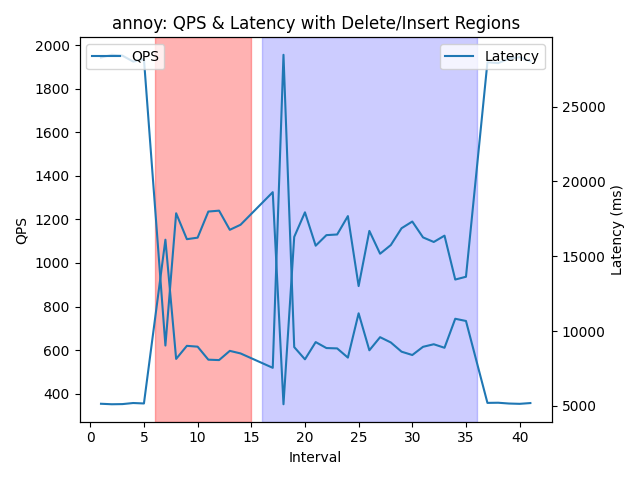
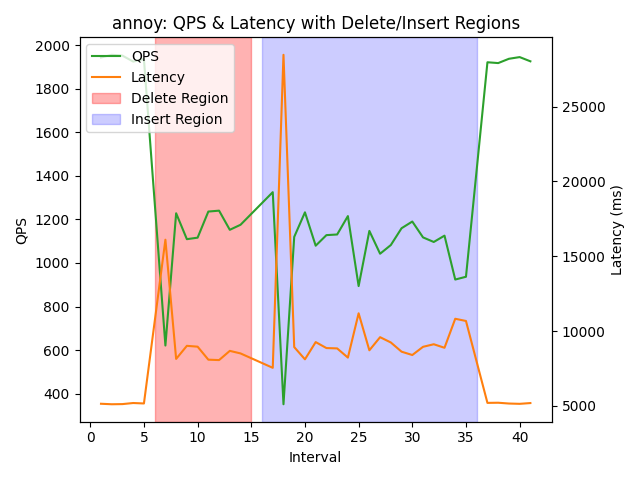
Changed plotting a bit

diff --git a/logs/plot.py b/logs/plot.py
@@ -2,6 +2,7 @@ import glob
 import os
 import re
 import matplotlib.pyplot as plt
+import matplotlib.patches as mpatches
 
 # Regex to match both with/without "queries/sec"
 pattern = re.compile(
@@ -37,21 +38,30 @@ for filepath in glob.glob('dynamic_updates_*.txt'):
     # Plot
     fig, ax1 = plt.subplots()
     ax2 = ax1.twinx()
-    ax1.plot(intervals, qps_vals, label='QPS')
-    ax2.plot(intervals, latencies, label='Latency')
 
-    # Highlight regions
+    # Plot lines with distinct colors
+    qps_line, = ax1.plot(intervals, qps_vals, color='tab:green', label='QPS')
+    latency_line, = ax2.plot(intervals, latencies, color='tab:orange', label='Latency')
+
+    # Shade delete (red) and insert (blue) regions
     for start, end in delete_regions:
         ax1.axvspan(start, end, color='red', alpha=0.3)
     for start, end in insert_regions:
         ax1.axvspan(start, end, color='blue', alpha=0.2)
 
+    # Create legend patches for regions
+    delete_patch = mpatches.Patch(color='red', alpha=0.3, label='Delete Region')
+    insert_patch = mpatches.Patch(color='blue', alpha=0.2, label='Insert Region')
+
+    # Combine all legend entries
+    handles = [qps_line, latency_line, delete_patch, insert_patch]
+    labels = ['QPS', 'Latency', 'Delete Region', 'Insert Region']
+    ax1.legend(handles, labels, loc='upper left')
+
     ax1.set_xlabel('Interval')
     ax1.set_ylabel('QPS')
     ax2.set_ylabel('Latency (ms)')
     plt.title(f'{dbname}: QPS & Latency with Delete/Insert Regions')
-    ax1.legend(loc='upper left')
-    ax2.legend(loc='upper right')
     plt.tight_layout()
 
     # Save output
